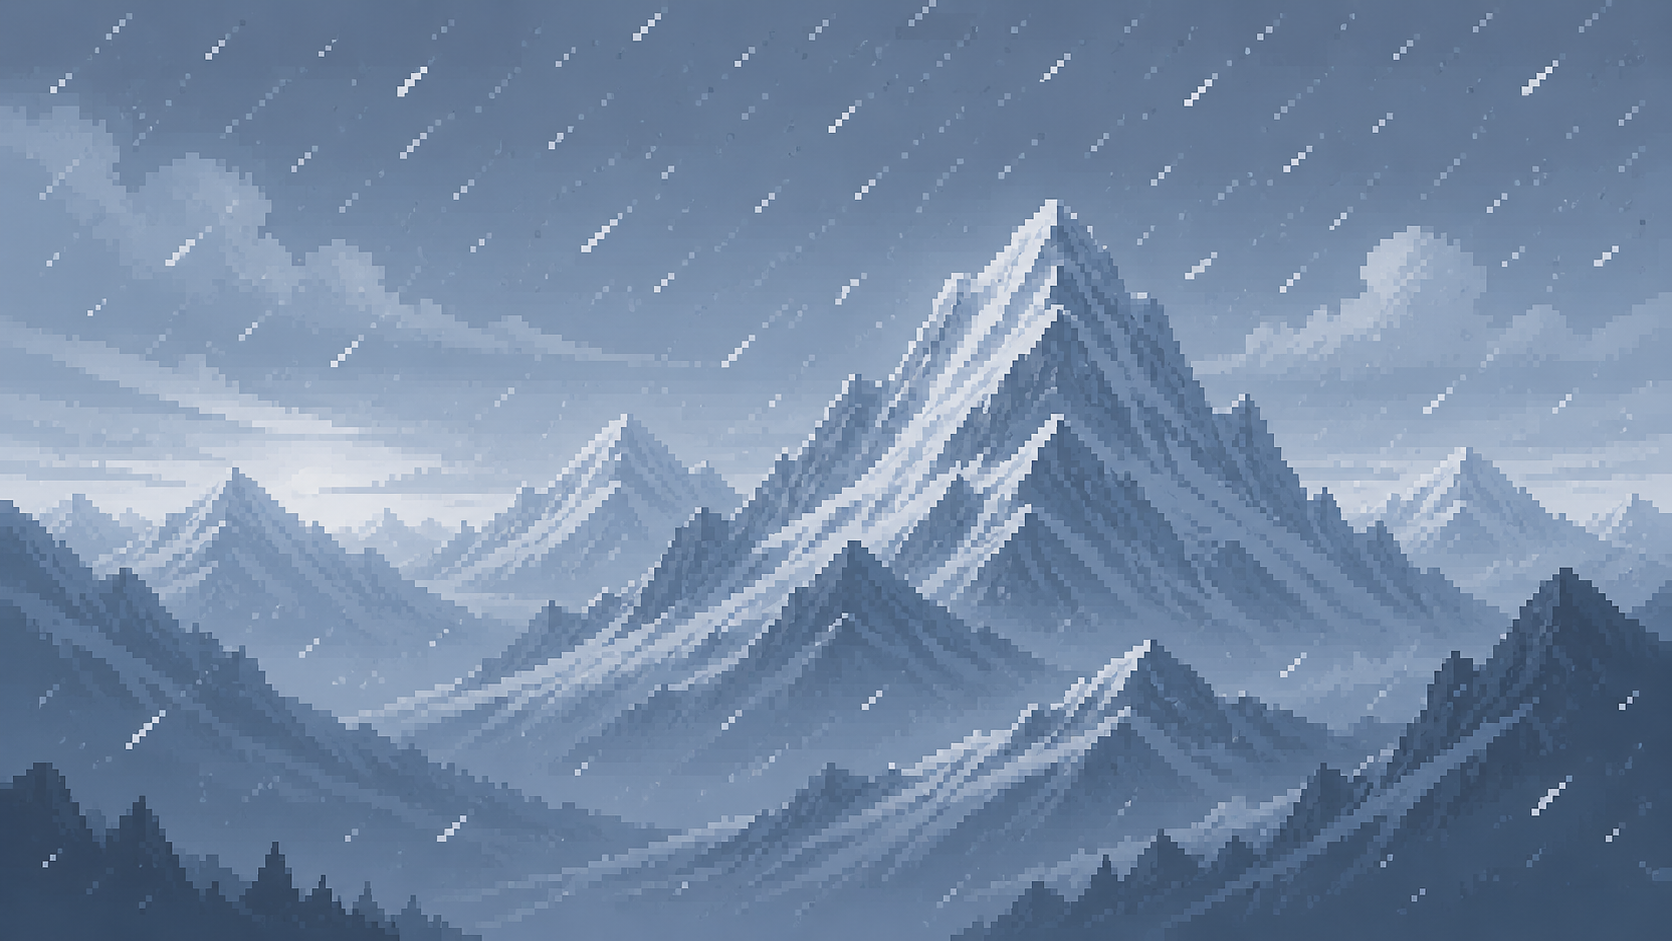
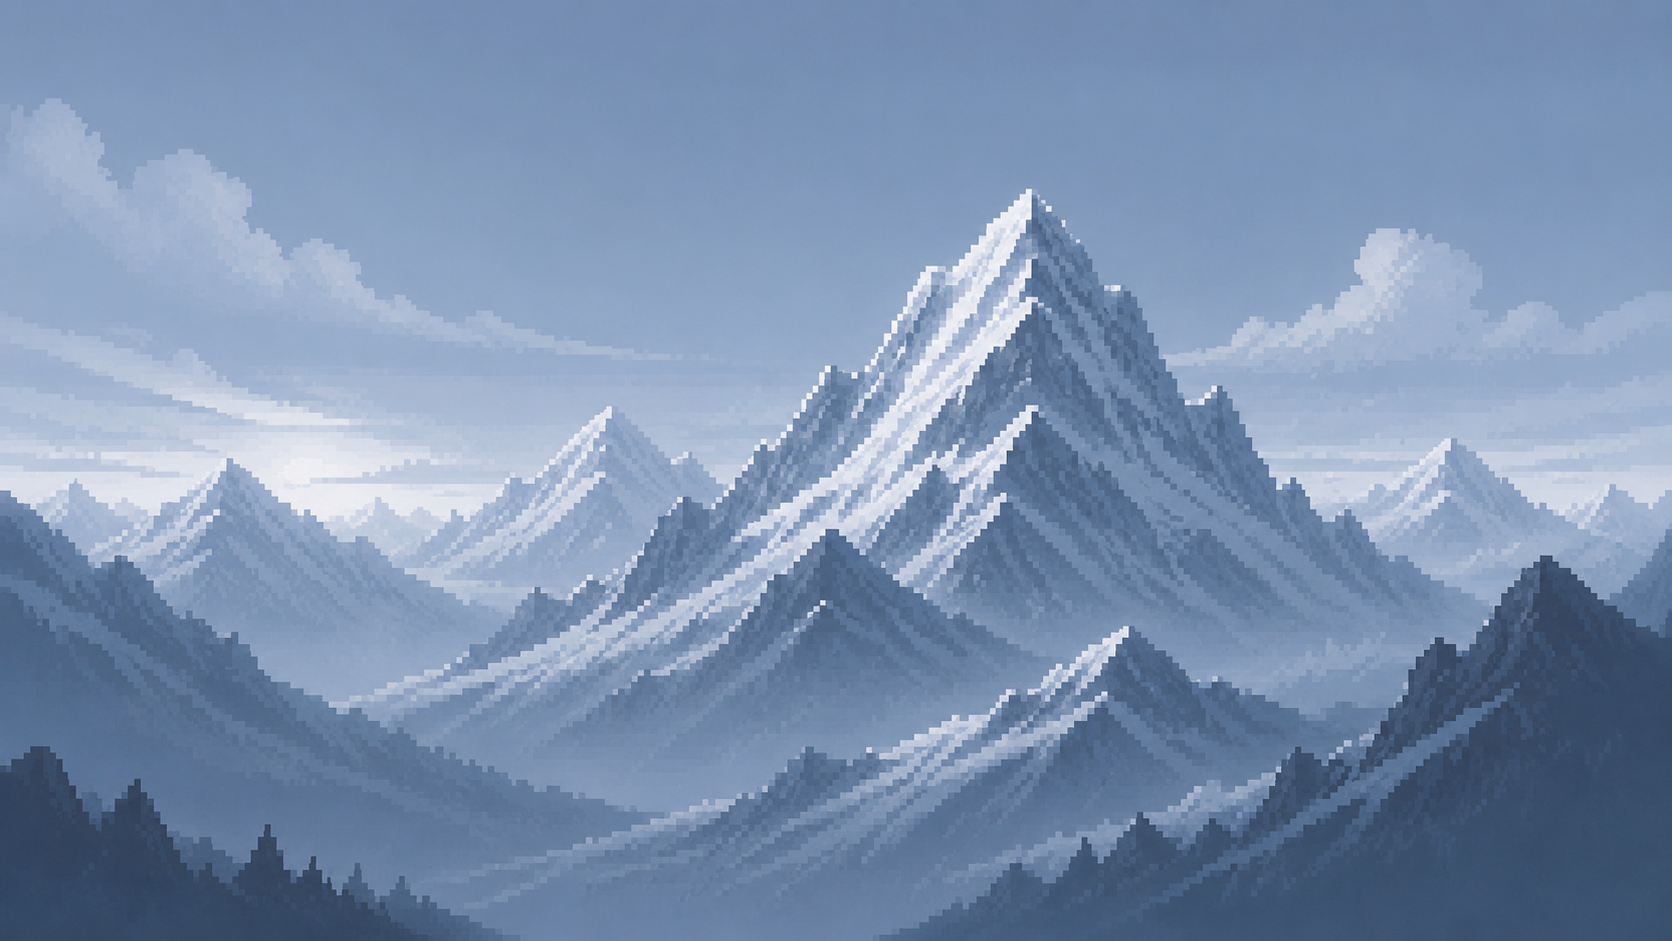
Daily difficulty bar + upgraded snow/above-clouds backdrops

diff --git a/index.html b/index.html
@@ -1281,6 +1281,41 @@
   #startscreen .daily-day.today {
     box-shadow: 0 0 0 1px rgba(255,255,255,0.34);
   }
+  #startscreen .daily-diff {
+    grid-column: 1 / -1;
+    display: flex;
+    align-items: center;
+    gap: 8px;
+    padding-top: 10px;
+    margin-top: 2px;
+    border-top: 1px solid rgba(255,255,255,0.12);
+  }
+  #startscreen .daily-diff-label {
+    color: rgba(255,255,255,0.44);
+    font-size: 8px;
+    letter-spacing: 0.16em;
+    text-transform: uppercase;
+  }
+  #startscreen .daily-diff-track {
+    position: relative;
+    flex: 1;
+    height: 9px;
+    background: rgba(255,255,255,0.08);
+    border: 1px solid rgba(255,255,255,0.14);
+    overflow: hidden;
+  }
+  #startscreen .daily-diff-fill {
+    height: 100%;
+    transition: width 0.3s ease;
+  }
+  #startscreen .daily-diff-word {
+    color: rgba(255,255,255,0.84);
+    font-size: 9px;
+    letter-spacing: 0.12em;
+    text-transform: uppercase;
+    min-width: 58px;
+    text-align: right;
+  }
   #startscreen .customizer {
     width: min(980px, 90vw);
     margin-top: 4px;
@@ -3709,6 +3744,25 @@
     { name: "sinai",       height: 2285, climb: 1.02, slip: 1.00, weather: 0.15, wind: 0.50, rare: false, cold: false },
     { name: "mitchell",    height: 2037, climb: 1.05, slip: 0.97, weather: 0.20, wind: 0.25, rare: false, cold: false }
   ];
+  function dailyDifficulty(m) {
+    // Mostly the climb length (real height), plus steepness, slip, and weather.
+    // everest/k2 land ~brutal; mitchell ~gentle.
+    var heightNorm = clamp01((m.height - 2000) / 6849);
+    var steepness = clamp01((1.05 - m.climb) / 0.11);
+    var slipNorm = clamp01((m.slip - 0.97) / 0.11);
+    return clamp01(0.60 * heightNorm + 0.18 * steepness + 0.12 * slipNorm + 0.07 * m.weather + 0.03 * m.wind);
+  }
+  function dailyDifficultyLabel(d) {
+    if (d >= 0.82) return "brutal";
+    if (d >= 0.60) return "hard";
+    if (d >= 0.38) return "moderate";
+    if (d >= 0.18) return "fair";
+    return "gentle";
+  }
+  function dailyDifficultyColor(d) {
+    return d < 0.5 ? mix([120, 200, 120], [232, 196, 90], clamp01(d / 0.5))
+                   : mix([232, 196, 90], [226, 96, 72], clamp01((d - 0.5) / 0.5));
+  }
   function dailyProfile() {
     if (dailyProfile.cache && dailyProfile.cache.date === dailyDate) return dailyProfile.cache;
     var m = DAILY_MOUNTAINS[Math.floor(hash(dailySeed * 3.91) * DAILY_MOUNTAINS.length) % DAILY_MOUNTAINS.length];
@@ -3723,7 +3777,8 @@
       wind: m.wind,
       weather: m.weather,
       rare: m.rare,
-      cold: m.cold
+      cold: m.cold,
+      difficulty: dailyDifficulty(m)
     };
     dailyProfile.cache = p;
     return p;
@@ -3740,6 +3795,30 @@
     cell.appendChild(l);
     cell.appendChild(v);
     el.appendChild(cell);
+  }
+
+  function appendDailyDifficulty(el, d) {
+    if (!el) return;
+    var row = document.createElement("div");
+    row.className = "daily-diff";
+    var label = document.createElement("span");
+    label.className = "daily-diff-label";
+    label.textContent = "difficulty";
+    var track = document.createElement("div");
+    track.className = "daily-diff-track";
+    var fill = document.createElement("div");
+    fill.className = "daily-diff-fill";
+    var col = dailyDifficultyColor(d);
+    fill.style.width = Math.round(8 + d * 92) + "%";
+    fill.style.background = "rgba(" + Math.round(col[0]) + "," + Math.round(col[1]) + "," + Math.round(col[2]) + ",0.92)";
+    track.appendChild(fill);
+    var word = document.createElement("strong");
+    word.className = "daily-diff-word";
+    word.textContent = dailyDifficultyLabel(d);
+    row.appendChild(label);
+    row.appendChild(track);
+    row.appendChild(word);
+    el.appendChild(row);
   }
 
   function appendDailyCalendar(el) {
@@ -3804,6 +3883,7 @@
       appendDailyStat(dailyLineEl, "today best", String(best).padStart(4, "0") + "m");
       appendDailyStat(dailyLineEl, "memory", left > 0 ? String(left).padStart(4, "0") + "m left" : "cleared · " + markCountLabel(records, false));
       appendDailyStat(dailyLineEl, "streak", streak);
+      appendDailyDifficulty(dailyLineEl, p.difficulty);
       appendDailyCalendar(dailyLineEl);
     }
   }